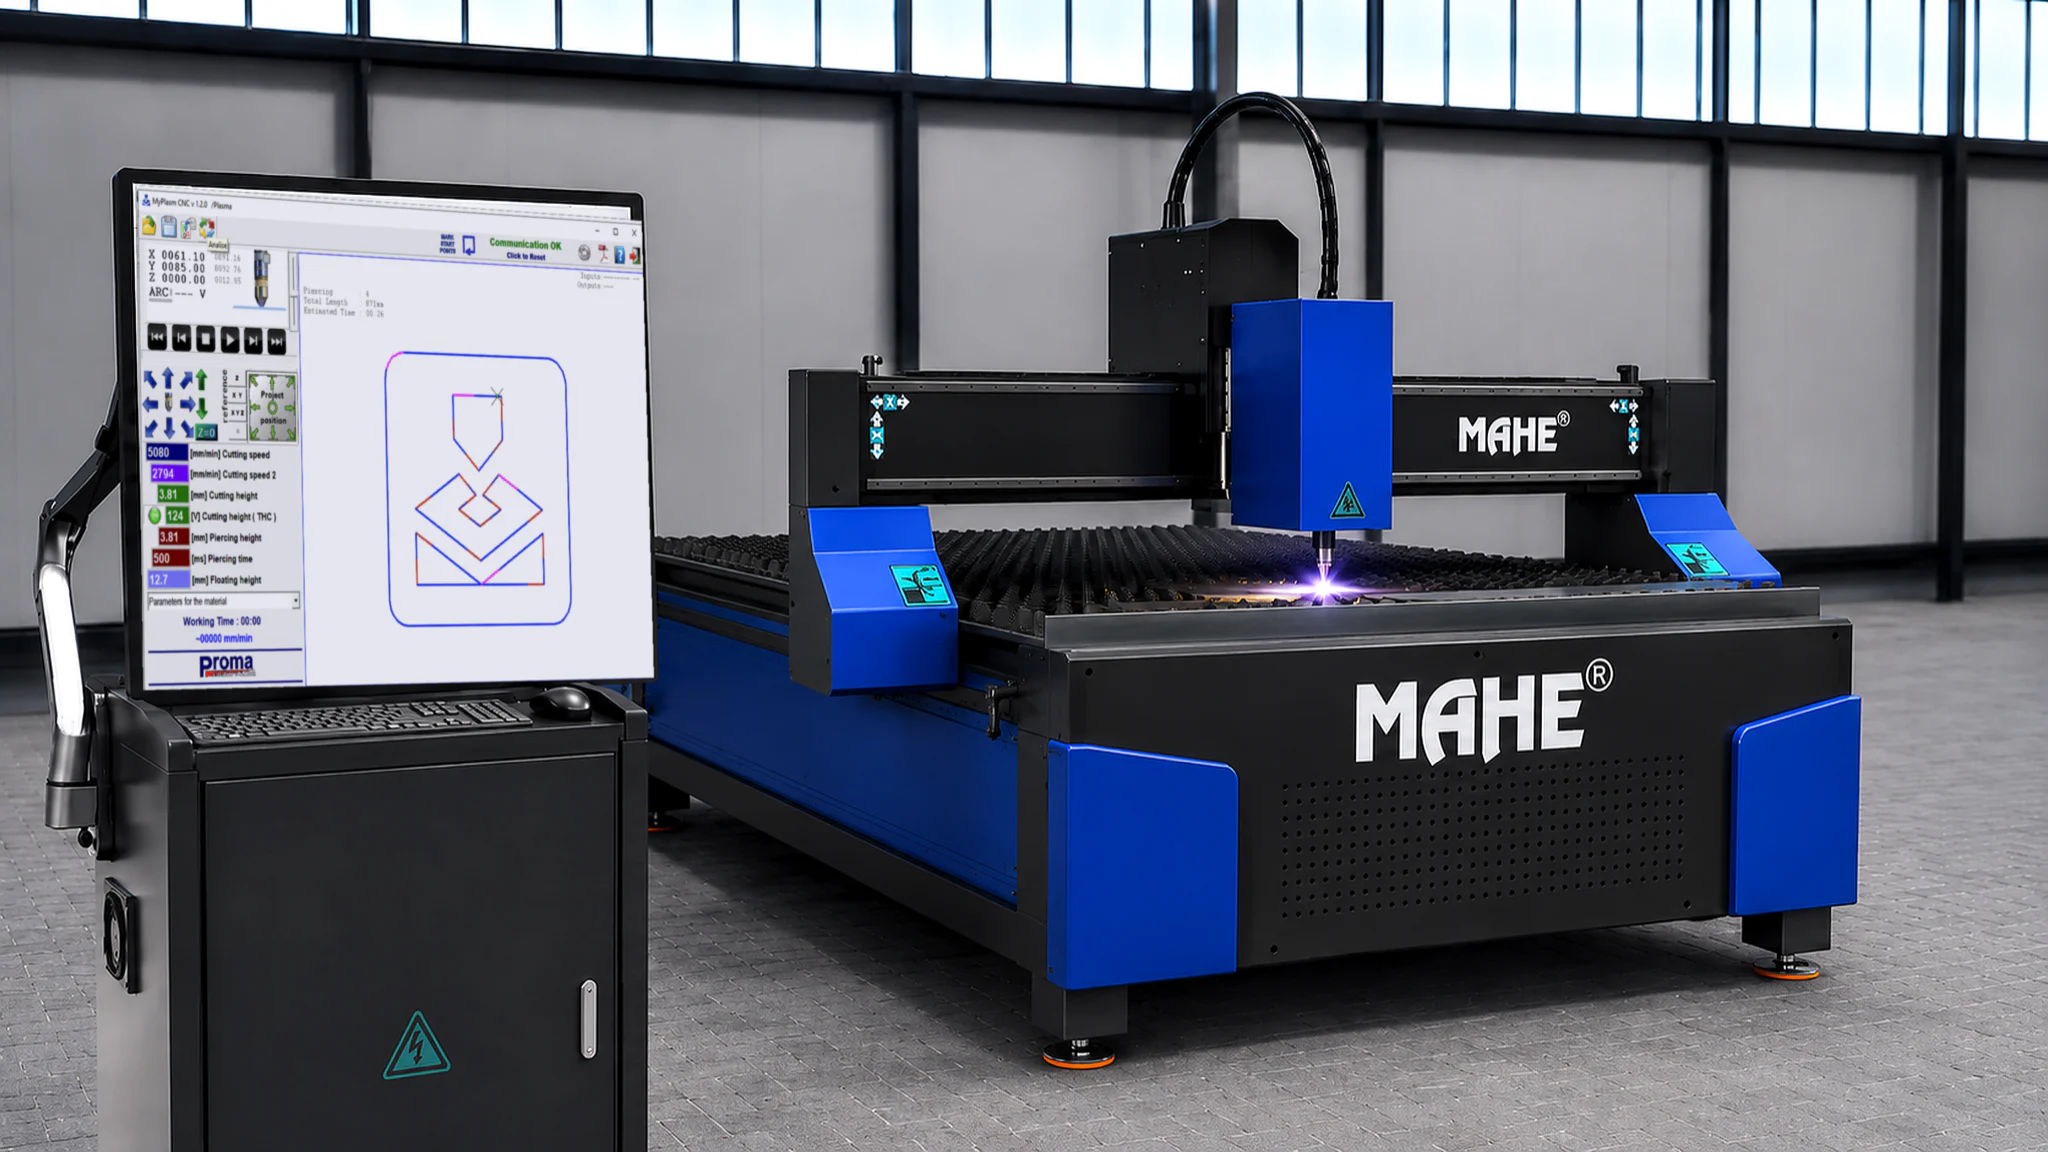
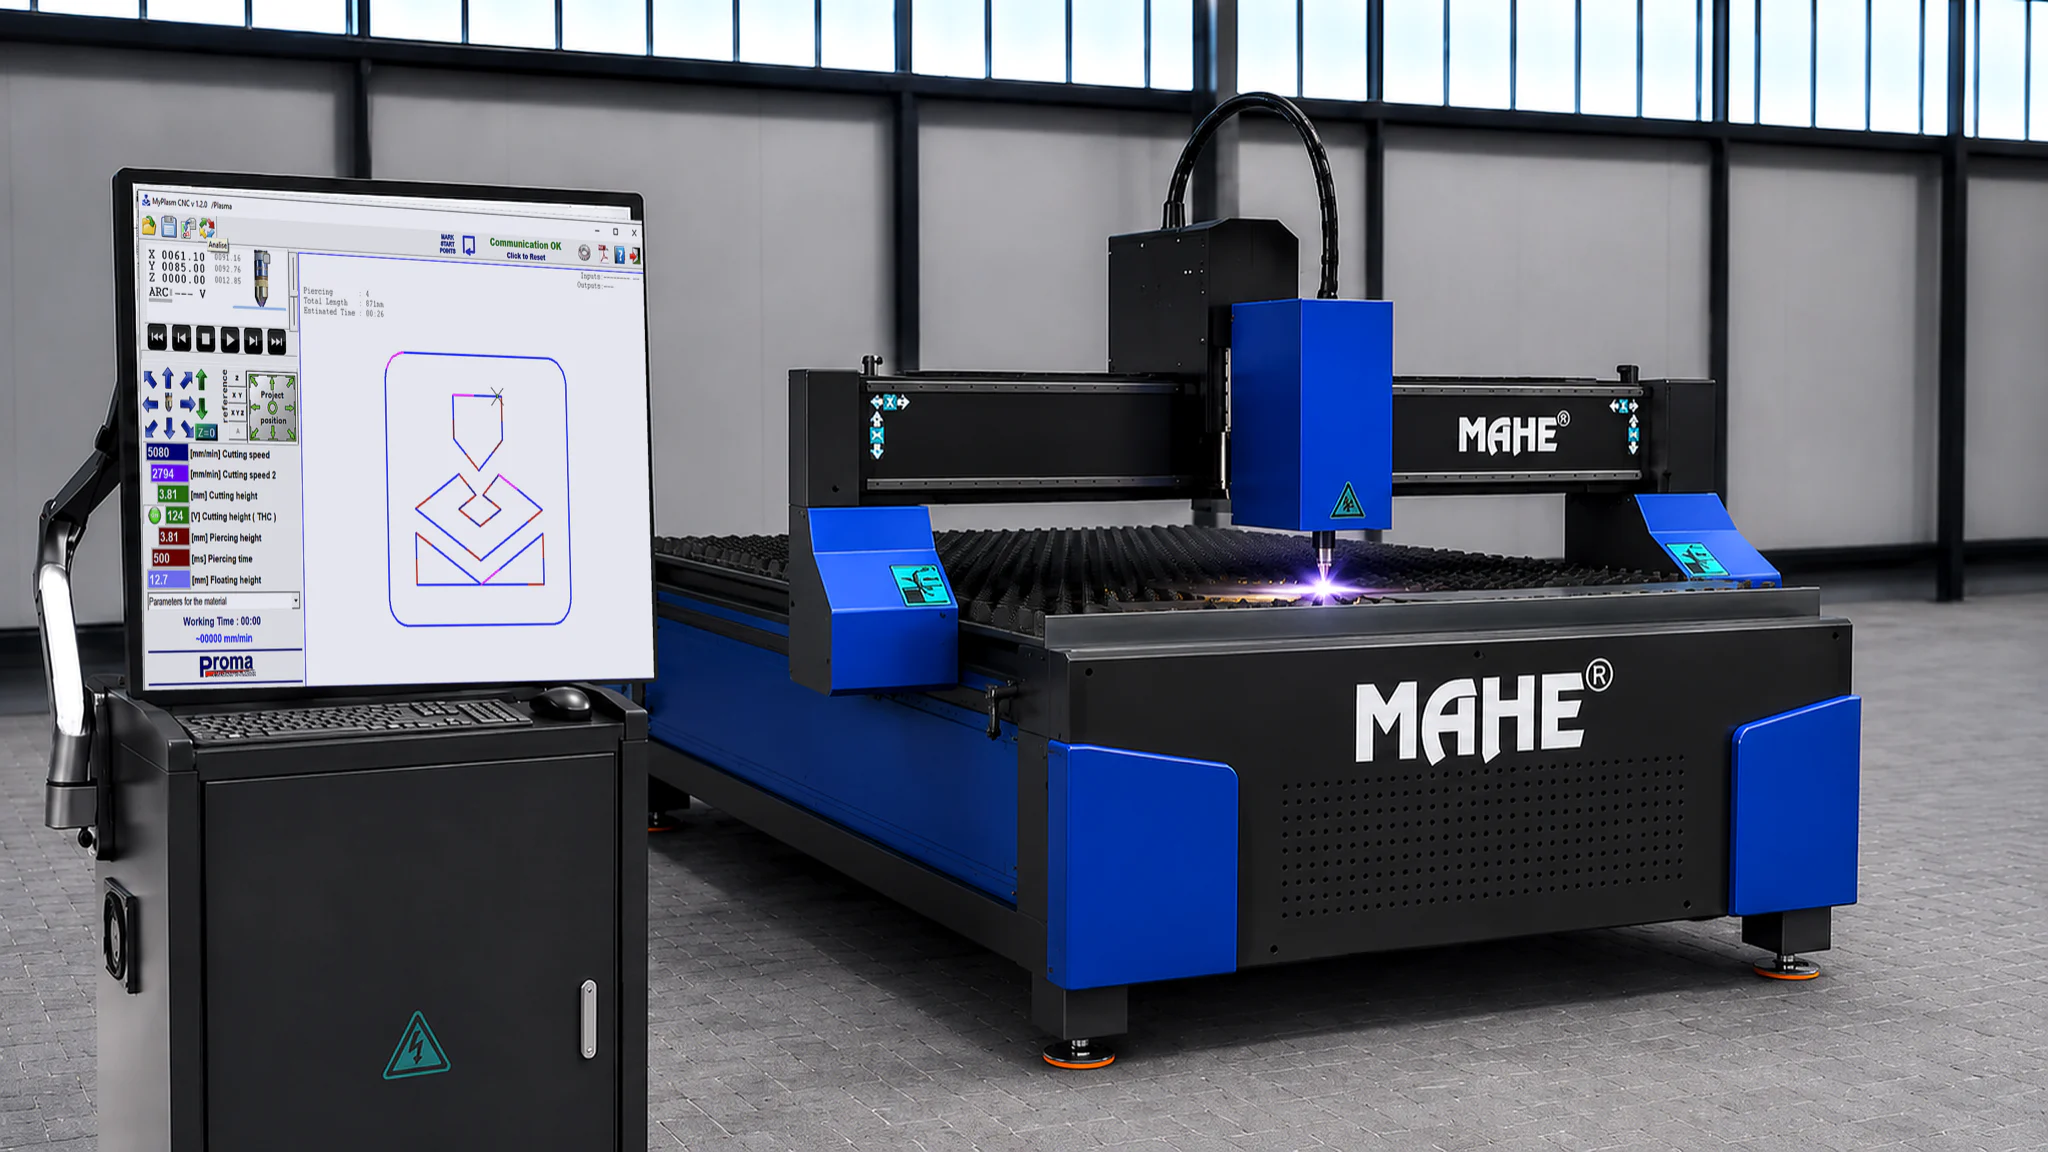
Geschaerftes MPT-Bild und die hreflang-Gegenprobe nachgereicht
Beides war schon fertig und gemessen, ist aber nicht in den Commit gekommen:
waehrend der Pruefung lief in diesem Arbeitsbaum ein "git checkout -- ." aus
einem Pruefauftrag und hat die noch nicht eingecheckten Aenderungen verworfen.
Der vorige Commit enthielt deshalb nur die neu erzeugten Datendateien. Das ist
hiermit nachgeholt; die Bilder auf der Platte hatten ueberlebt, die Aenderung
an check.py nicht und ist neu eingebaut.

Inhalt:

* Der Monitor im MPT-Bild ist scharf. Die Perspektive wird jetzt auf doppelter
  Flaeche gerechnet und mit LANCZOS verkleinert, gefolgt von UnsharpMask
  (1.1 / 55 / 2) statt der bisherigen Weichzeichnung. Gemessen ueber den
  Monitorausschnitt, mittlere quadratische Kantensteigung:
      Stufe 3000 (Lupe)   390.6 -> 1155.0   (2.96x)
      Stufe 2000          693.9 -> 1527.5   (2.20x)
      hero-mpt-2048       613.7 -> 1233.1   (2.01x)

* check.py prueft zusaetzlich Selbstverweis und Wechselseitigkeit der
  hreflang-Gruppen. Bisher wurde nur geprueft, ob die Ziele existieren -
  genau die Klasse, die Ahrefs am 13.08.2026 gemeldet hat, faellt damit
  kuenftig schon beim Bauen auf. Gegenprobe: einen Rueckverweis von Hand
  verbogen, beide Richtungen wurden gemeldet; zurueckgesetzt wieder 0 Fehler.
  Ergebnis heute: 345 Gruppen, keine Beanstandung.

Lehre fuer kuenftige Pruefauftraege: sie duerfen den Arbeitsbaum nicht
anfassen. Entweder laufen sie in einer eigenen Kopie, oder der Auftrag verbietet
[…]

diff --git a/fr/index.html b/fr/index.html
@@ -102,7 +102,7 @@
 </aside>
 <main id="main">
 
-<section class="hero" data-hero aria-roledescription="carousel" aria-label="VES-TECH Swiss"><div class="hero-slide active" role="group" aria-roledescription="slide" aria-label="Image 1 sur 2"><div class="hero-inner"><img class="hero-photo" src="/assets/img/hero-1536.webp?v=4fab8153" srcset="/assets/img/hero-640.webp?v=7de5f3d2 640w, /assets/img/hero-1000.webp?v=fa3d0fe1 1000w, /assets/img/hero-1536.webp?v=4fab8153 1536w" sizes="100vw" width="1536" height="1024" fetchpriority="high" decoding="async" alt="MAHE HyperMIG SX: Schweissanlagen bei VES-TECH Swiss" data-fb="/assets/img/hero.jpg"></div></div><div class="hero-slide light" role="group" aria-roledescription="slide" aria-label="Image 2 sur 2"><div class="hero-inner"><img class="hero-photo" src="/assets/img/hero-mpt-2048.webp?v=cb7a7848" srcset="/assets/img/hero-mpt-640.webp?v=0534d64a 640w, /assets/img/hero-mpt-1000.webp?v=133474c2 1000w, /assets/img/hero-mpt-1536.webp?v=88f715d6 1536w, /assets/img/hero-mpt-2048.webp?v=cb7a7848 2048w" sizes="100vw" width="3344" height="1882" loading="eager" fetchpriority="low" decoding="async" alt="MAHE MPT: CNC-Plasmaschneidtisch mit Bedienkonsole" data-fb="/assets/img/hero-mpt.jpg"><div class="hero-txt"><span class="hk">Nouveau dans la gamme</span><h2>MAHE MPT · table de découpe plasma CNC</h2><p>3000 × 1500 mm ou 2500 × 1250 mm · Theta 060 / 120 / 180 HSC · MyPlasm CNC</p><a class="btn pri" href="/fr/produits/decoupe-plasma/mpt-3001/">Voir la table de découpe</a></div></div></div><div class="hero-dots" role="tablist" aria-label="Autres images"><button class="hdot active" type="button" role="tab" aria-selected="true" data-i="0" aria-label="Image 1 sur 2"></button><button class="hdot" type="button" role="tab" aria-selected="false" data-i="1" aria-label="Image 2 sur 2"></button></div></section>
+<section class="hero" data-hero aria-roledescription="carousel" aria-label="VES-TECH Swiss"><div class="hero-slide active" role="group" aria-roledescription="slide" aria-label="Image 1 sur 2"><div class="hero-inner"><img class="hero-photo" src="/assets/img/hero-1536.webp?v=4fab8153" srcset="/assets/img/hero-640.webp?v=7de5f3d2 640w, /assets/img/hero-1000.webp?v=fa3d0fe1 1000w, /assets/img/hero-1536.webp?v=4fab8153 1536w" sizes="100vw" width="1536" height="1024" fetchpriority="high" decoding="async" alt="MAHE HyperMIG SX: Schweissanlagen bei VES-TECH Swiss" data-fb="/assets/img/hero.jpg"></div></div><div class="hero-slide light" role="group" aria-roledescription="slide" aria-label="Image 2 sur 2"><div class="hero-inner"><img class="hero-photo" src="/assets/img/hero-mpt-2048.webp?v=5ce88a02" srcset="/assets/img/hero-mpt-640.webp?v=cf7dc135 640w, /assets/img/hero-mpt-1000.webp?v=88d31c6d 1000w, /assets/img/hero-mpt-1536.webp?v=458fb6f8 1536w, /assets/img/hero-mpt-2048.webp?v=5ce88a02 2048w" sizes="100vw" width="3344" height="1882" loading="eager" fetchpriority="low" decoding="async" alt="MAHE MPT: CNC-Plasmaschneidtisch mit Bedienkonsole" data-fb="/assets/img/hero-mpt.jpg"><div class="hero-txt"><span class="hk">Nouveau dans la gamme</span><h2>MAHE MPT · table de découpe plasma CNC</h2><p>3000 × 1500 mm ou 2500 × 1250 mm · Theta 060 / 120 / 180 HSC · MyPlasm CNC</p><a class="btn pri" href="/fr/produits/decoupe-plasma/mpt-3001/">Voir la table de découpe</a></div></div></div><div class="hero-dots" role="tablist" aria-label="Autres images"><button class="hdot active" type="button" role="tab" aria-selected="true" data-i="0" aria-label="Image 1 sur 2"></button><button class="hdot" type="button" role="tab" aria-selected="false" data-i="1" aria-label="Image 2 sur 2"></button></div></section>
 <div class="hero-cta"><div class="wrap"><div class="cta-row">
   <a class="btn pri" href="/fr/contact/">Demander un technicien →</a>
   <a class="btn ghost light" href="/fr/produits/">Voir les systèmes MAHE</a>

diff --git a/it/index.html b/it/index.html
@@ -102,7 +102,7 @@
 </aside>
 <main id="main">
 
-<section class="hero" data-hero aria-roledescription="carousel" aria-label="VES-TECH Swiss"><div class="hero-slide active" role="group" aria-roledescription="slide" aria-label="Immagine 1 di 2"><div class="hero-inner"><img class="hero-photo" src="/assets/img/hero-1536.webp?v=4fab8153" srcset="/assets/img/hero-640.webp?v=7de5f3d2 640w, /assets/img/hero-1000.webp?v=fa3d0fe1 1000w, /assets/img/hero-1536.webp?v=4fab8153 1536w" sizes="100vw" width="1536" height="1024" fetchpriority="high" decoding="async" alt="MAHE HyperMIG SX: Schweissanlagen bei VES-TECH Swiss" data-fb="/assets/img/hero.jpg"></div></div><div class="hero-slide light" role="group" aria-roledescription="slide" aria-label="Immagine 2 di 2"><div class="hero-inner"><img class="hero-photo" src="/assets/img/hero-mpt-2048.webp?v=cb7a7848" srcset="/assets/img/hero-mpt-640.webp?v=0534d64a 640w, /assets/img/hero-mpt-1000.webp?v=133474c2 1000w, /assets/img/hero-mpt-1536.webp?v=88f715d6 1536w, /assets/img/hero-mpt-2048.webp?v=cb7a7848 2048w" sizes="100vw" width="3344" height="1882" loading="eager" fetchpriority="low" decoding="async" alt="MAHE MPT: CNC-Plasmaschneidtisch mit Bedienkonsole" data-fb="/assets/img/hero-mpt.jpg"><div class="hero-txt"><span class="hk">Nuovo in gamma</span><h2>MAHE MPT · tavolo di taglio al plasma CNC</h2><p>3000 × 1500 mm o 2500 × 1250 mm · Theta 060 / 120 / 180 HSC · MyPlasm CNC</p><a class="btn pri" href="/it/prodotti/taglio-plasma/mpt-3001/">Vai al tavolo di taglio</a></div></div></div><div class="hero-dots" role="tablist" aria-label="Altre immagini"><button class="hdot active" type="button" role="tab" aria-selected="true" data-i="0" aria-label="Immagine 1 di 2"></button><button class="hdot" type="button" role="tab" aria-selected="false" data-i="1" aria-label="Immagine 2 di 2"></button></div></section>
+<section class="hero" data-hero aria-roledescription="carousel" aria-label="VES-TECH Swiss"><div class="hero-slide active" role="group" aria-roledescription="slide" aria-label="Immagine 1 di 2"><div class="hero-inner"><img class="hero-photo" src="/assets/img/hero-1536.webp?v=4fab8153" srcset="/assets/img/hero-640.webp?v=7de5f3d2 640w, /assets/img/hero-1000.webp?v=fa3d0fe1 1000w, /assets/img/hero-1536.webp?v=4fab8153 1536w" sizes="100vw" width="1536" height="1024" fetchpriority="high" decoding="async" alt="MAHE HyperMIG SX: Schweissanlagen bei VES-TECH Swiss" data-fb="/assets/img/hero.jpg"></div></div><div class="hero-slide light" role="group" aria-roledescription="slide" aria-label="Immagine 2 di 2"><div class="hero-inner"><img class="hero-photo" src="/assets/img/hero-mpt-2048.webp?v=5ce88a02" srcset="/assets/img/hero-mpt-640.webp?v=cf7dc135 640w, /assets/img/hero-mpt-1000.webp?v=88d31c6d 1000w, /assets/img/hero-mpt-1536.webp?v=458fb6f8 1536w, /assets/img/hero-mpt-2048.webp?v=5ce88a02 2048w" sizes="100vw" width="3344" height="1882" loading="eager" fetchpriority="low" decoding="async" alt="MAHE MPT: CNC-Plasmaschneidtisch mit Bedienkonsole" data-fb="/assets/img/hero-mpt.jpg"><div class="hero-txt"><span class="hk">Nuovo in gamma</span><h2>MAHE MPT · tavolo di taglio al plasma CNC</h2><p>3000 × 1500 mm o 2500 × 1250 mm · Theta 060 / 120 / 180 HSC · MyPlasm CNC</p><a class="btn pri" href="/it/prodotti/taglio-plasma/mpt-3001/">Vai al tavolo di taglio</a></div></div></div><div class="hero-dots" role="tablist" aria-label="Altre immagini"><button class="hdot active" type="button" role="tab" aria-selected="true" data-i="0" aria-label="Immagine 1 di 2"></button><button class="hdot" type="button" role="tab" aria-selected="false" data-i="1" aria-label="Immagine 2 di 2"></button></div></section>
 <div class="hero-cta"><div class="wrap"><div class="cta-row">
   <a class="btn pri" href="/it/contatto/">Richiedi un tecnico →</a>
   <a class="btn ghost light" href="/it/prodotti/">Vedi i sistemi MAHE</a>

diff --git a/index.html b/index.html
@@ -102,7 +102,7 @@
 </aside>
 <main id="main">
 
-<section class="hero" data-hero aria-roledescription="carousel" aria-label="VES-TECH Swiss"><div class="hero-slide active" role="group" aria-roledescription="slide" aria-label="Bild 1 von 2"><div class="hero-inner"><img class="hero-photo" src="/assets/img/hero-1536.webp?v=4fab8153" srcset="/assets/img/hero-640.webp?v=7de5f3d2 640w, /assets/img/hero-1000.webp?v=fa3d0fe1 1000w, /assets/img/hero-1536.webp?v=4fab8153 1536w" sizes="100vw" width="1536" height="1024" fetchpriority="high" decoding="async" alt="MAHE HyperMIG SX: Schweissanlagen bei VES-TECH Swiss" data-fb="/assets/img/hero.jpg"></div></div><div class="hero-slide light" role="group" aria-roledescription="slide" aria-label="Bild 2 von 2"><div class="hero-inner"><img class="hero-photo" src="/assets/img/hero-mpt-2048.webp?v=cb7a7848" srcset="/assets/img/hero-mpt-640.webp?v=0534d64a 640w, /assets/img/hero-mpt-1000.webp?v=133474c2 1000w, /assets/img/hero-mpt-1536.webp?v=88f715d6 1536w, /assets/img/hero-mpt-2048.webp?v=cb7a7848 2048w" sizes="100vw" width="3344" height="1882" loading="eager" fetchpriority="low" decoding="async" alt="MAHE MPT: CNC-Plasmaschneidtisch mit Bedienkonsole" data-fb="/assets/img/hero-mpt.jpg"><div class="hero-txt"><span class="hk">Neu im Programm</span><h2>MAHE MPT · CNC-Plasmaschneidtisch</h2><p>3000 × 1500 mm oder 2500 × 1250 mm · Theta 060 / 120 / 180 HSC · MyPlasm CNC</p><a class="btn pri" href="/produkte/plasmaschneiden/mpt-3001/">Zum Schneidtisch</a></div></div></div><div class="hero-dots" role="tablist" aria-label="Weitere Bilder"><button class="hdot active" type="button" role="tab" aria-selected="true" data-i="0" aria-label="Bild 1 von 2"></button><button class="hdot" type="button" role="tab" aria-selected="false" data-i="1" aria-label="Bild 2 von 2"></button></div></section>
+<section class="hero" data-hero aria-roledescription="carousel" aria-label="VES-TECH Swiss"><div class="hero-slide active" role="group" aria-roledescription="slide" aria-label="Bild 1 von 2"><div class="hero-inner"><img class="hero-photo" src="/assets/img/hero-1536.webp?v=4fab8153" srcset="/assets/img/hero-640.webp?v=7de5f3d2 640w, /assets/img/hero-1000.webp?v=fa3d0fe1 1000w, /assets/img/hero-1536.webp?v=4fab8153 1536w" sizes="100vw" width="1536" height="1024" fetchpriority="high" decoding="async" alt="MAHE HyperMIG SX: Schweissanlagen bei VES-TECH Swiss" data-fb="/assets/img/hero.jpg"></div></div><div class="hero-slide light" role="group" aria-roledescription="slide" aria-label="Bild 2 von 2"><div class="hero-inner"><img class="hero-photo" src="/assets/img/hero-mpt-2048.webp?v=5ce88a02" srcset="/assets/img/hero-mpt-640.webp?v=cf7dc135 640w, /assets/img/hero-mpt-1000.webp?v=88d31c6d 1000w, /assets/img/hero-mpt-1536.webp?v=458fb6f8 1536w, /assets/img/hero-mpt-2048.webp?v=5ce88a02 2048w" sizes="100vw" width="3344" height="1882" loading="eager" fetchpriority="low" decoding="async" alt="MAHE MPT: CNC-Plasmaschneidtisch mit Bedienkonsole" data-fb="/assets/img/hero-mpt.jpg"><div class="hero-txt"><span class="hk">Neu im Programm</span><h2>MAHE MPT · CNC-Plasmaschneidtisch</h2><p>3000 × 1500 mm oder 2500 × 1250 mm · Theta 060 / 120 / 180 HSC · MyPlasm CNC</p><a class="btn pri" href="/produkte/plasmaschneiden/mpt-3001/">Zum Schneidtisch</a></div></div></div><div class="hero-dots" role="tablist" aria-label="Weitere Bilder"><button class="hdot active" type="button" role="tab" aria-selected="true" data-i="0" aria-label="Bild 1 von 2"></button><button class="hdot" type="button" role="tab" aria-selected="false" data-i="1" aria-label="Bild 2 von 2"></button></div></section>
 <div class="hero-cta"><div class="wrap"><div class="cta-row">
   <a class="btn pri" href="/kontakt/">Technik direkt anfragen →</a>
   <a class="btn ghost light" href="/produkte/">MAHE Systeme ansehen</a>

diff --git a/build/check.py b/build/check.py
@@ -188,6 +188,10 @@ def reihenfolge():
             return
 
 
+# Gesammelte hreflang-Gruppen; nach dem Durchlauf gegeneinander geprueft.
+hreflang_gruppen = {}
+
+
 def main():
     pages = sorted(all_pages())
     if len(pages) < 200:
@@ -265,6 +269,14 @@ def main():
             for _, href in alts:
                 if not target_exists(href.replace(C.SITE, "")):
                     err(f"{where}: hreflang-Ziel fehlt {href}")
+            # Fuer die Gegenprobe nach dem Durchlauf merken. Suchmaschinen
+            # werten eine Sprachgruppe nur aus, wenn jede Seite sich selbst
+            # nennt und alle einander nennen; fehlt eine Richtung, verwirft
+            # Google die Gruppe stillschweigend. Der Ahrefs-Bericht vom
+            # 13.08.2026 meldete genau diese Klasse - dort war es eine
+            # Drosselung waehrend eines Deploys, aber ein echter Fehler waere
+            # bisher nur von aussen aufgefallen.
+            hreflang_gruppen[C.SITE + p] = {c: h for c, h in alts if c != "x-default"}
 
         # 2. interne Links
         for href in re.findall(r'href="(/[^"#]*)"', html):
@@ -352,7 +364,20 @@ def main():
         if not (ROOT / need).exists():
             err(f"Datei fehlt: {need}")
 
+    # Gegenprobe: Selbstverweis und Wechselseitigkeit
+    for url, gruppe in hreflang_gruppen.items():
+        if url not in gruppe.values():
+            err(f"{url}: nennt sich selbst nicht im hreflang")
+        for code, ziel in gruppe.items():
+            andere = hreflang_gruppen.get(ziel)
+            if andere is None:
+                err(f"{url}: hreflang {code} -> {ziel} ist keine indexierbare Seite")
+            elif url not in andere.values():
+                err(f"{url}: hreflang {code} -> {ziel} kommt nicht zurueck")
+
     print(f"{len(pages)} Seiten geprüft  ·  {dict(per_lang)}")
+    print(f"hreflang: {len(hreflang_gruppen)} Gruppen, Selbstverweis und "
+          f"Wechselseitigkeit geprüft")
     for w in warnings[:25]:
         print("  WARN " + w)
     if len(warnings) > 25:
